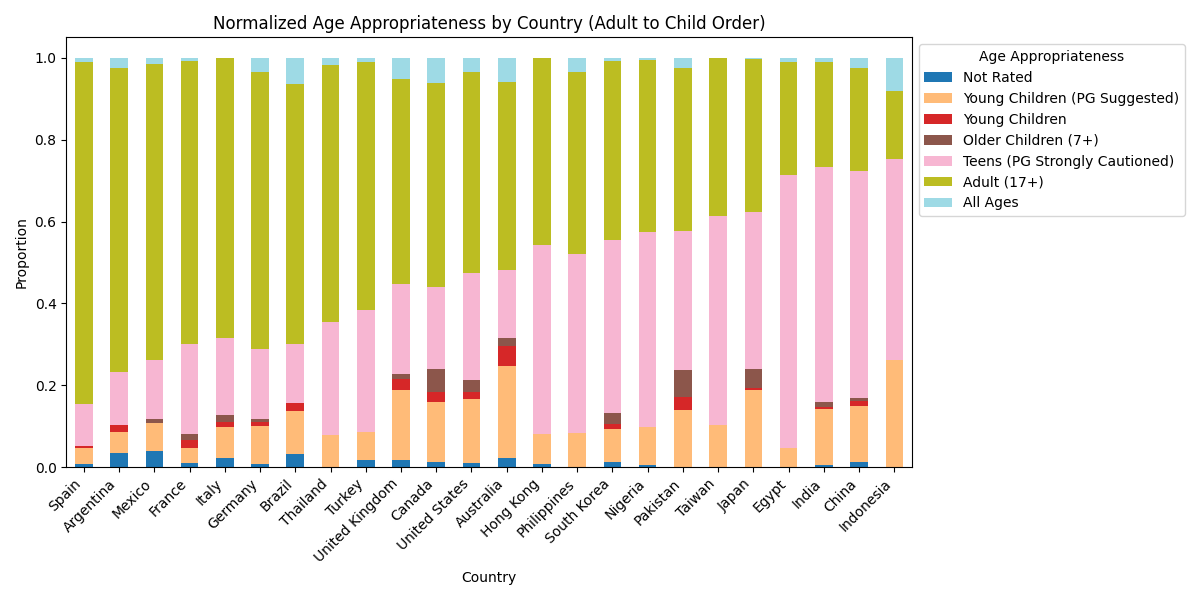
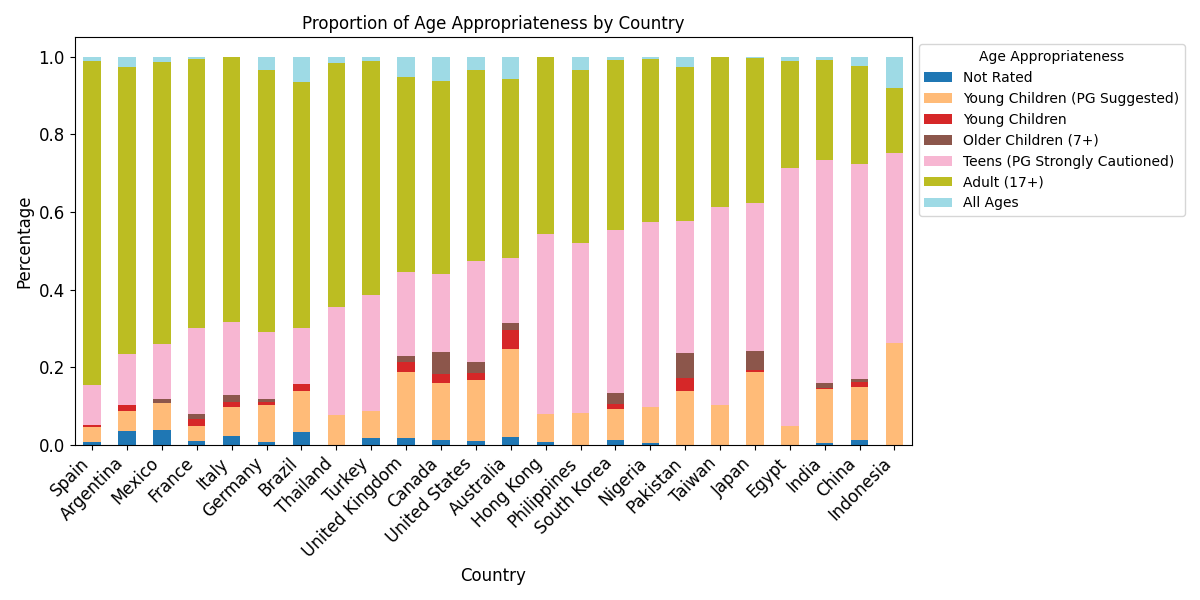
increase graph font size

diff --git a/src/analyzer.py b/src/analyzer.py
@@ -392,10 +392,11 @@ class Analyzer:
 
         type_by_country.plot(kind='bar', stacked=True, figsize=(10, 5), colormap='tab20')
         plt.title("Releases by Country")
-        plt.xlabel("Country")
-        plt.ylabel("Number of Releases")
+        plt.xlabel("Country", fontsize=12)
+        plt.ylabel("Number of Releases", fontsize=12)
         plt.legend(title='Content Type')
-        plt.xticks(rotation=45, ha='right')
+        plt.xticks(rotation=45, ha='right', fontsize=12)
+        plt.yticks(fontsize=12)
         plt.tight_layout()
         plt.savefig("results/s2_1_releases_by_country.png")
         plt.clf()  # Clear figure for next plot
@@ -413,10 +414,11 @@ class Analyzer:
         # Plot normalized stacked bar chart with this order
         type_proportions_by_country.plot(kind='bar', stacked=True, figsize=(10, 5), colormap='tab20')
         plt.title("Proportion of Content Type by Country")
-        plt.xlabel("Country")
-        plt.ylabel("Percentage")
+        plt.xlabel("Country", fontsize=12)
+        plt.ylabel("Percentage", fontsize=12)
         plt.legend(title='Content Type', bbox_to_anchor=(1, 1), loc='upper left')
-        plt.xticks(rotation=45, ha='right')
+        plt.xticks(rotation=45, ha='right', fontsize=12)
+        plt.yticks(fontsize=12)
         plt.tight_layout()
         plt.savefig("results/s2_2_types_by_country.png")
         plt.clf()  # Clear figure for next plot
@@ -441,11 +443,12 @@ class Analyzer:
         rating_proportions_by_country = ordered_index[ordered_index.mean().sort_values(ascending=True).index]
 
         rating_proportions_by_country.plot(kind='bar', stacked=True, figsize=(12, 6), colormap='tab20')
-        plt.title("Normalized Maturity Ratings by Country")
-        plt.xlabel("Country")
-        plt.ylabel("Percentage")
+        plt.title("Proportion of Maturity Ratings by Country")
+        plt.xlabel("Country", fontsize=12)
+        plt.ylabel("Percentage", fontsize=12)
         plt.legend(title='Maturity Rating', bbox_to_anchor=(1, 1), loc='upper left')
-        plt.xticks(rotation=45, ha='right')
+        plt.xticks(rotation=45, ha='right', fontsize=12)
+        plt.yticks(fontsize=12)
         plt.tight_layout()
         plt.savefig("results/s2_3_normalized_ratings_by_country.png")
         plt.clf() # Clear figure for next plot
@@ -477,11 +480,12 @@ class Analyzer:
         grouped_rating_proportions_by_country = ordered_index[desired_order]
 
         grouped_rating_proportions_by_country.plot(kind='bar', stacked=True, figsize=(12, 6), colormap='tab20')
-        plt.title("Normalized Age Appropriateness by Country (Adult to Child Order)")
-        plt.xlabel("Country")
-        plt.ylabel("Proportion")
+        plt.title("Proportion of Age Appropriateness by Country")
+        plt.xlabel("Country", fontsize=12)
+        plt.ylabel("Percentage", fontsize=12)
         plt.legend(title='Age Appropriateness', bbox_to_anchor=(1, 1), loc='upper left')
-        plt.xticks(rotation=45, ha='right')
+        plt.xticks(rotation=45, ha='right', fontsize=12)
+        plt.yticks(fontsize=12)
         plt.tight_layout()
         plt.savefig("results/s2_4_normalized_grouped_ratings_by_country.png")
         plt.clf() # Clear figure for next plot
@@ -502,11 +506,12 @@ class Analyzer:
         genre_by_country = genre_by_country.loc[ordered_index]
 
         plt.figure(figsize=(14, 8))
-        sns.heatmap(genre_by_country, annot=False, cmap='viridis')
+        sns.heatmap(genre_by_country, annot=False, cmap='viridis', cbar_kws={'pad': 0.01})
         plt.title("Genres by Country")
-        plt.xlabel("Genre")
-        plt.ylabel("Country")
-        plt.xticks(rotation=45, ha='right')
+        plt.xlabel("Genre", fontsize=12)
+        plt.ylabel("Country", fontsize=12)
+        plt.xticks(rotation=45, ha='right', fontsize=12)
+        plt.yticks(fontsize=12)
         plt.tight_layout()
         plt.savefig("results/s2_5_genres_by_country.png")
         plt.clf() # Clear figure for next plot
@@ -524,11 +529,12 @@ class Analyzer:
         genre_group_by_country = genre_group_by_country.loc[ordered_index]
 
         plt.figure(figsize=(14, 8))
-        sns.heatmap(genre_group_by_country, annot=False, cmap='viridis')
+        sns.heatmap(genre_group_by_country, annot=False, cmap='viridis', cbar_kws={'pad': 0.01})
         plt.title("Genre Groups by Country")
-        plt.xlabel("Genre Group")
-        plt.ylabel("Country")
-        plt.xticks(rotation=45, ha='right')
+        plt.xlabel("Genre Group", fontsize=12)
+        plt.ylabel("Country", fontsize=12)
+        plt.xticks(rotation=45, ha='right', fontsize=12)
+        plt.yticks(fontsize=12)
         plt.tight_layout()
         plt.savefig("results/s2_6_genre_groups_by_country.png")
         plt.clf() # Clear figure for next plot
@@ -543,11 +549,12 @@ class Analyzer:
         tv_show_subgenre_by_country = pd.crosstab(df_tv_show['country'], df_tv_show['Genre'])
         
         plt.figure(figsize=(14, 8))
-        sns.heatmap(tv_show_subgenre_by_country, annot=False, cmap='viridis')
+        sns.heatmap(tv_show_subgenre_by_country, annot=False, cmap='viridis', cbar_kws={'pad': 0.01})
         plt.title('TV Show Sub-genres by Country')
-        plt.xlabel('TV Show Sub-Genre')
-        plt.ylabel('Country')
-        plt.xticks(rotation=45, ha='right')
+        plt.xlabel('TV Show Sub-Genre', fontsize=12)
+        plt.ylabel('Country', fontsize=12)
+        plt.xticks(rotation=45, ha='right', fontsize=12)
+        plt.yticks(fontsize=12)
         plt.tight_layout()
         plt.savefig("results/s2_7_tv_show_subgenres_by_country.png")
         plt.clf() # Clear figure for next plot
